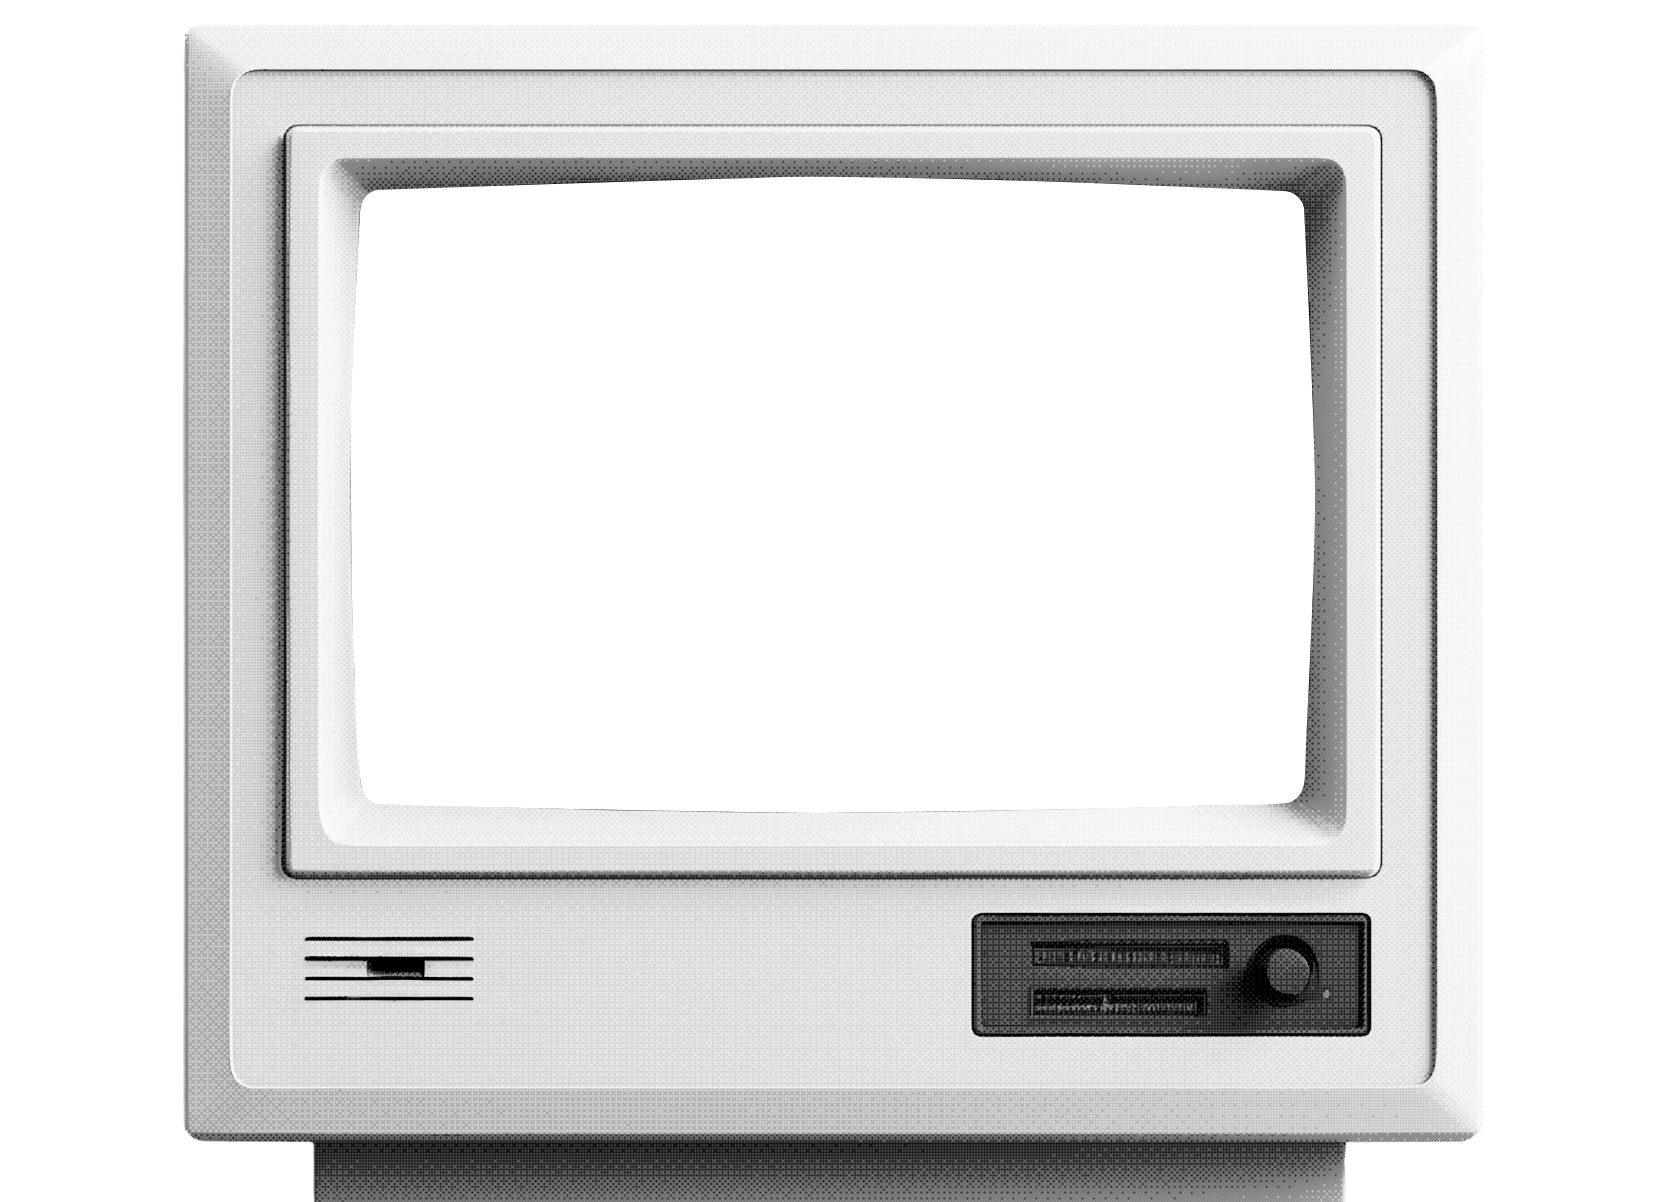
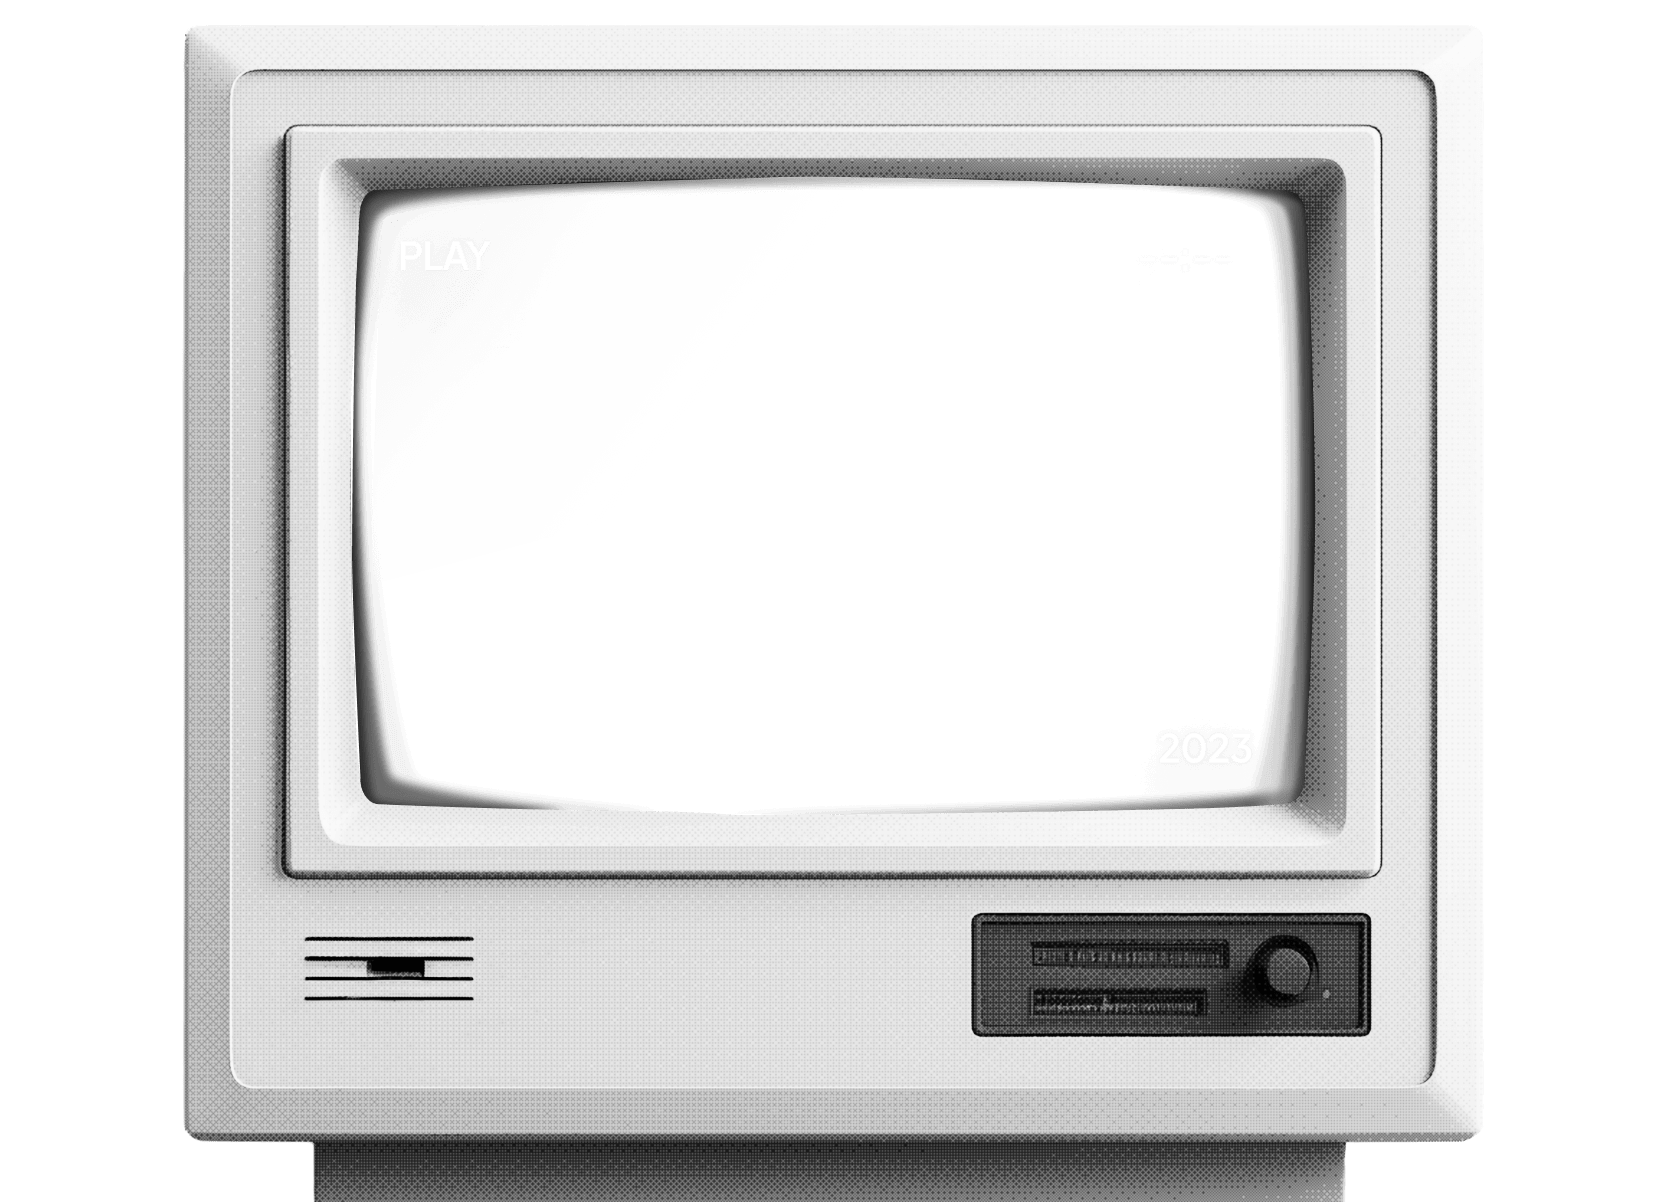
chore: update hero tv illustrations

Changed region(s): [[0.5575, 0.1539, 0.8052, 0.6772], [0.1858, 0.1231, 0.5884, 0.6772]]

diff --git a/src/components/pages/archive/hero/hero.jsx b/src/components/pages/archive/hero/hero.jsx
@@ -57,14 +57,6 @@ const Hero = () => {
             type="button"
             onClick={() => handleModalShow()}
           >
-            <StaticImage
-              className="!-left-[12px] !top-[18px] !w-[102%] lg:!-left-[2%] lg:!top-[2.5%] lg:!w-[105%] md:!-left-[2%] md:!top-0 md:!w-[103%]"
-              src="./images/tv-screen.png"
-              width={522}
-              height={353}
-              loading="eager"
-              alt=""
-            />
             <span className="sr-only">Play video</span>
             <StaticImage
               className="!absolute inset-0 z-0 transition-all duration-200 group-hover:scale-110"
